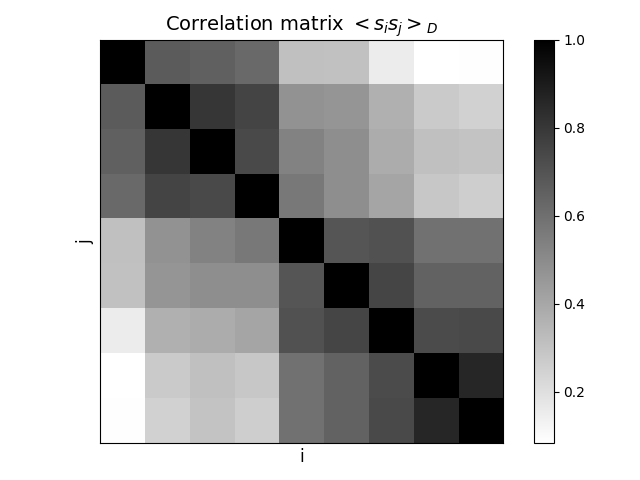
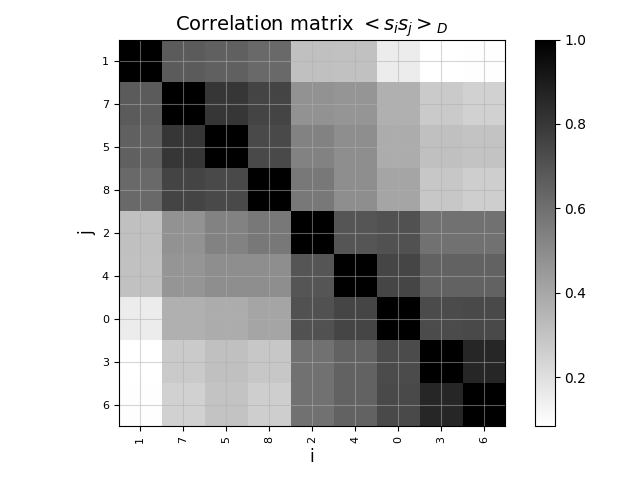
add fitted Jij and hij plots

diff --git a/src/tcs/supreme_court.py b/src/tcs/supreme_court.py
@@ -3,13 +3,14 @@ import matplotlib.pyplot as plt
 import os
 
 class SupremeCourt: 
-    def __init__(self, hi_file_path, Jij_file_path, SC_file_path): 
+    def __init__(self, num_judges, hi_file_path, Jij_file_path, SC_file_path): 
         """
         Initialize a SupremeCourt object.
         """
         self.hi_file_path = hi_file_path 
         self.Jij_file_path = Jij_file_path 
         self.SC_file_path = SC_file_path 
+        self.num_judges = num_judges
         self.data = None
 
     def load_data(self): 
@@ -78,6 +79,7 @@ class SupremeCourt:
             plt.savefig(save_path)
         else: 
             plt.show()
+
     def plot_vote_correlation(self, save_path=None): 
         """
         Plot the correlation matrix of the votes.
@@ -98,13 +100,67 @@ class SupremeCourt:
         plt.title(r"Correlation matrix $<s_i s_j>_D$", fontsize=14)
         plt.xlabel("i", fontsize=12)
         plt.ylabel("j", fontsize=12)
-        plt.xticks([])
-        plt.yticks([])
+        plt.xticks(ticks=np.arange(len(sorted_indices)), labels=sorted_indices, fontsize=8, rotation=90)
+        plt.yticks(ticks=np.arange(len(sorted_indices)), labels=sorted_indices, fontsize=8)
         plt.grid(visible=True, alpha=0.5)
         plt.tight_layout()
         if save_path: 
             plt.savefig(save_path)
         else: 
+            plt.show()
+
+    def plot_fitted_parameters(self, save_hi_path=None, save_Jij_path=None): 
+        """
+        Plot heatmaps of the fitted hi vector and Jij matrix, reordered by <si>_D.
+        """
+        hi_unsorted = np.loadtxt(self.hi_file_path)
+        Jij_unsorted = np.loadtxt(self.Jij_file_path)
+
+
+        Jij_matrix = np.zeros((self.num_judges, self.num_judges))
+        idx = 0
+        for i in range(self.num_judges):
+            for j in range(i+1, self.num_judges):
+                Jij_matrix[i, j] = Jij_unsorted[idx]
+                Jij_matrix[j, i] = Jij_unsorted[idx]
+                idx += 1
+
+        with open(self.SC_file_path, 'r') as f:
+            lines = [line.strip() for line in f if line.strip()]
+
+        # Sort by mean magnetisations 
+        data = np.array([[int(char) for char in line] for line in lines])
+        data[data == 0] = -1
+        mean_si = np.mean(data, axis=0)
+        sorted_indices = np.argsort(mean_si)
+
+        hi_sorted = hi_unsorted[sorted_indices]
+        Jij_sorted = Jij_matrix[sorted_indices][:, sorted_indices]
+
+        # Plot hi heatmap
+        plt.figure()
+        plt.imshow(hi_sorted.reshape(1, -1), cmap='gray_r', aspect='auto')
+        plt.colorbar()
+        plt.title(r"Fitted $h_i$ Values", fontsize=14)
+        plt.yticks([])
+        plt.xticks(ticks=np.arange(len(hi_sorted)), labels=sorted_indices, fontsize=8, rotation=90)
+        plt.tight_layout()
+        if save_hi_path:
+            plt.savefig(save_hi_path)
+        else:
+            plt.show()
+
+        # Plot Jij heatmap
+        plt.figure()
+        plt.imshow(Jij_sorted, cmap='gray_r')
+        plt.colorbar()
+        plt.title(r"Fitted $J_{ij}$ Values", fontsize=14)
+        plt.xticks(ticks=np.arange(len(Jij_sorted)), labels=sorted_indices, fontsize=8, rotation=90)
+        plt.yticks(ticks=np.arange(len(Jij_sorted)), labels=sorted_indices, fontsize=8)
+        plt.tight_layout()
+        if save_Jij_path:
+            plt.savefig(save_Jij_path)
+        else:
             plt.show()
 
 
@@ -113,11 +169,21 @@ if __name__ == "__main__":
     if not os.path.exists(results_dir):
         os.makedirs(results_dir)
 
-    sc = SupremeCourt("data/hi_ussc_unsorted.txt", "data/Jij_ussc_unsorted.txt", "data/US_SupremeCourt.txt")
+    sc = SupremeCourt(
+        num_judges=9, 
+        hi_file_path="data/hi_ussc_unsorted.txt", 
+        Jij_file_path="data/Jij_ussc_unsorted.txt", 
+        SC_file_path="data/US_SupremeCourt.txt"
+        )
+    
     sc.load_data()
     sc.calculate_information()
    
     sc.plot_average_votes(save_path=os.path.join(results_dir, "avg_votes_plot.png"))
     sc.plot_vote_correlation(save_path=os.path.join(results_dir, "correlation_heatmap.png"))
+    sc.plot_fitted_parameters(
+        save_hi_path=os.path.join(results_dir, "hi_heatmap.png"),
+        save_Jij_path=os.path.join(results_dir, "Jij_heatmap.png")
+    )
 
     
